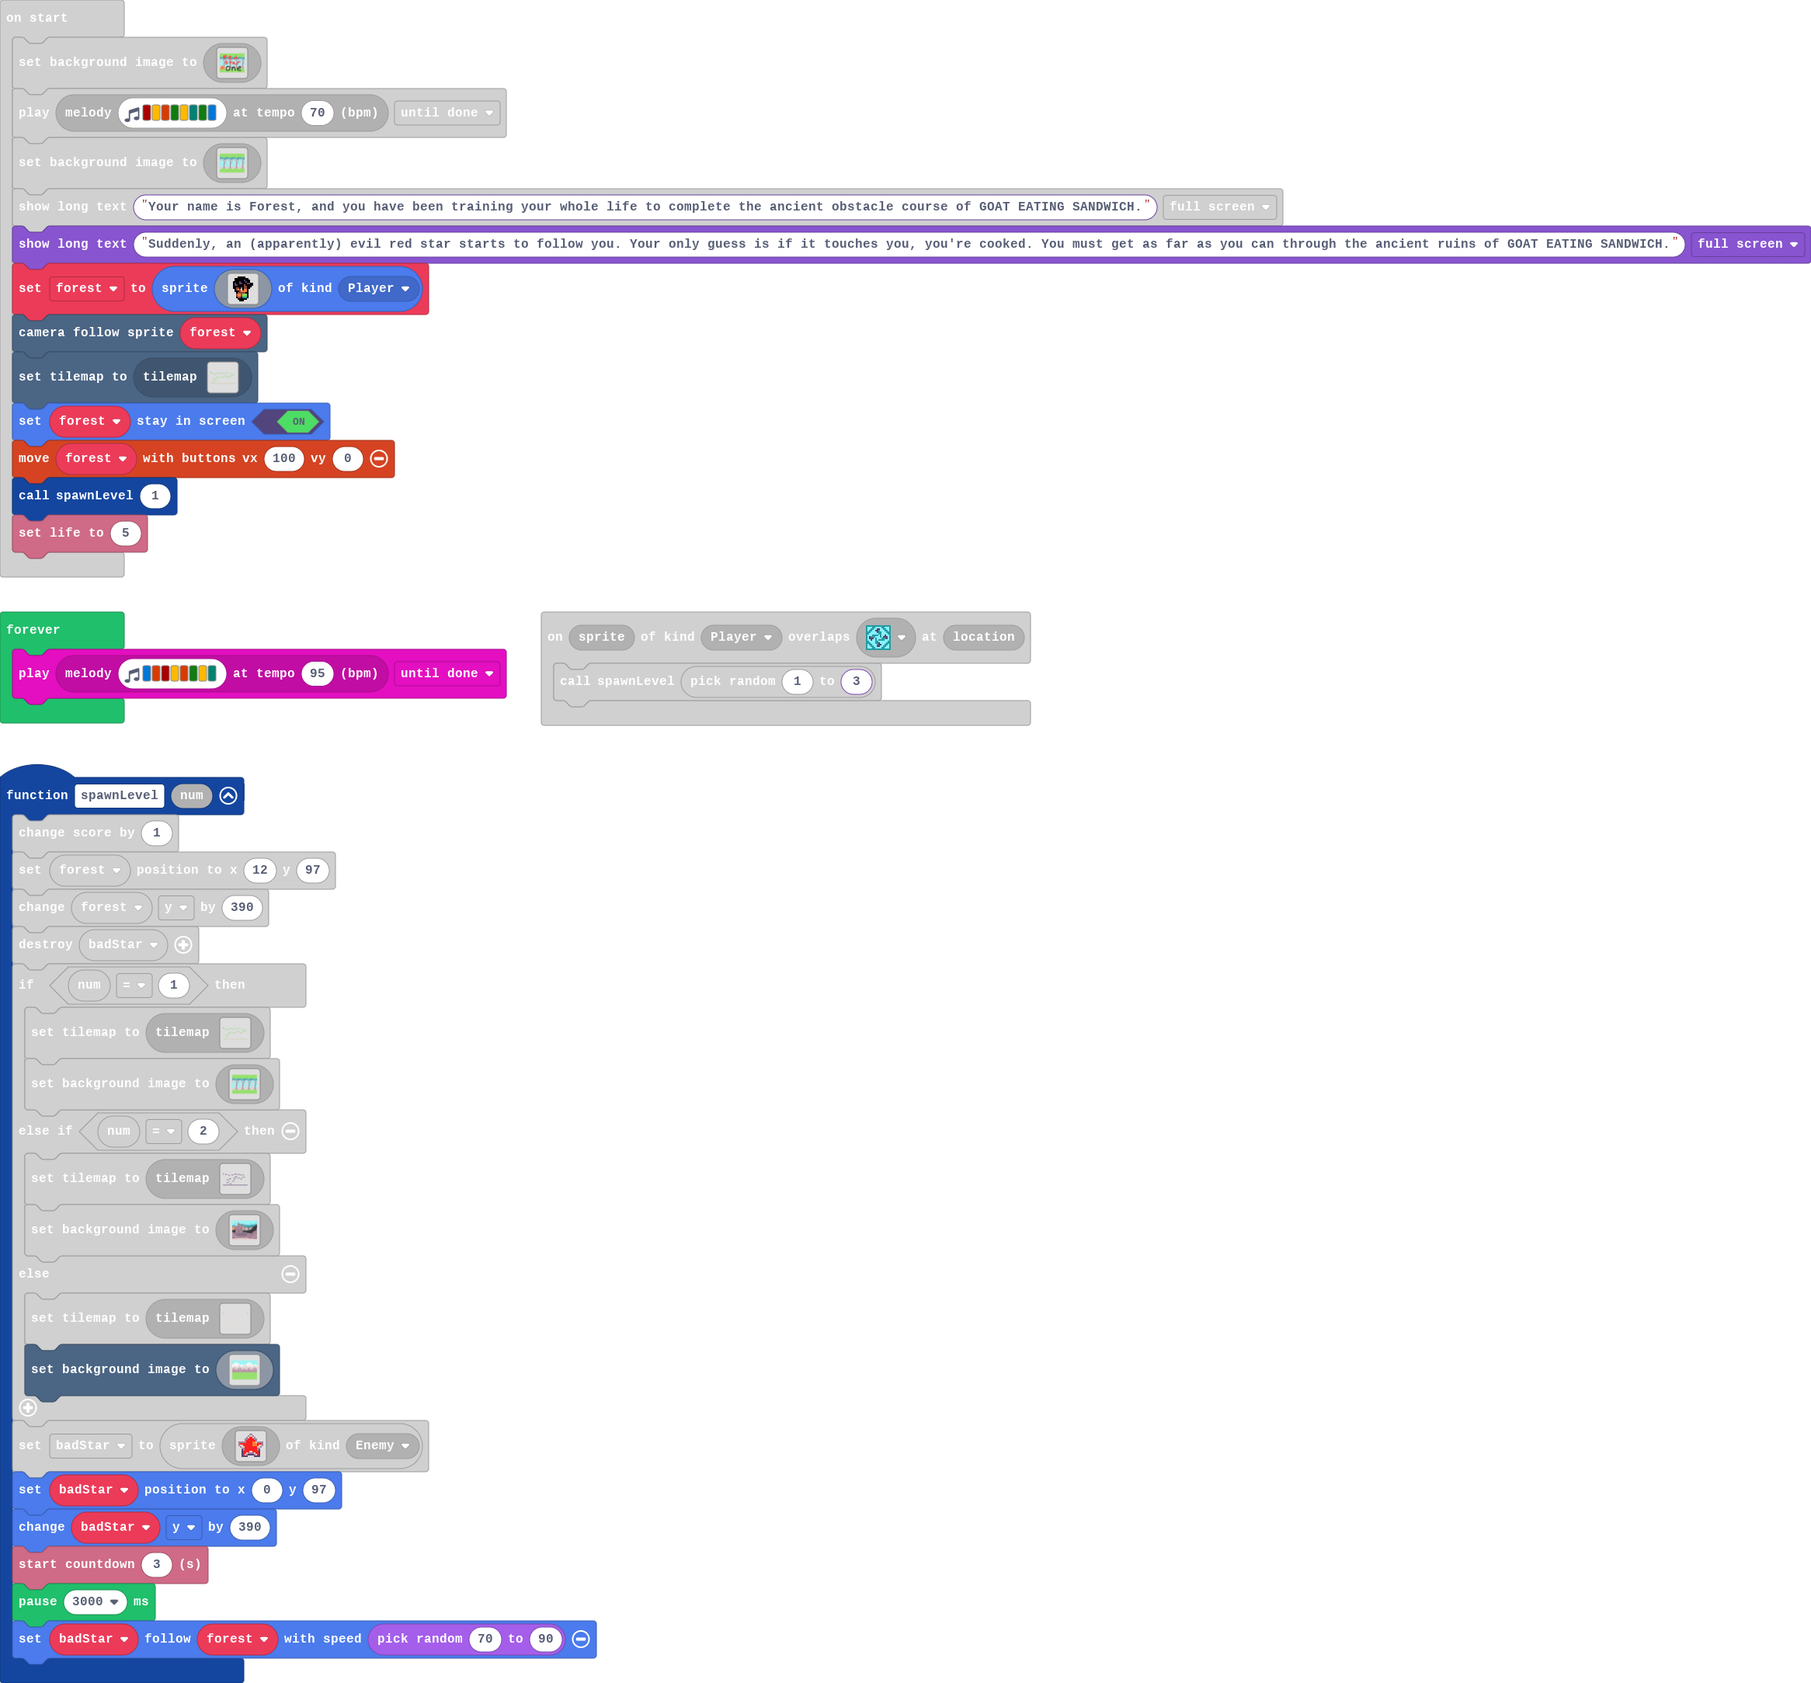
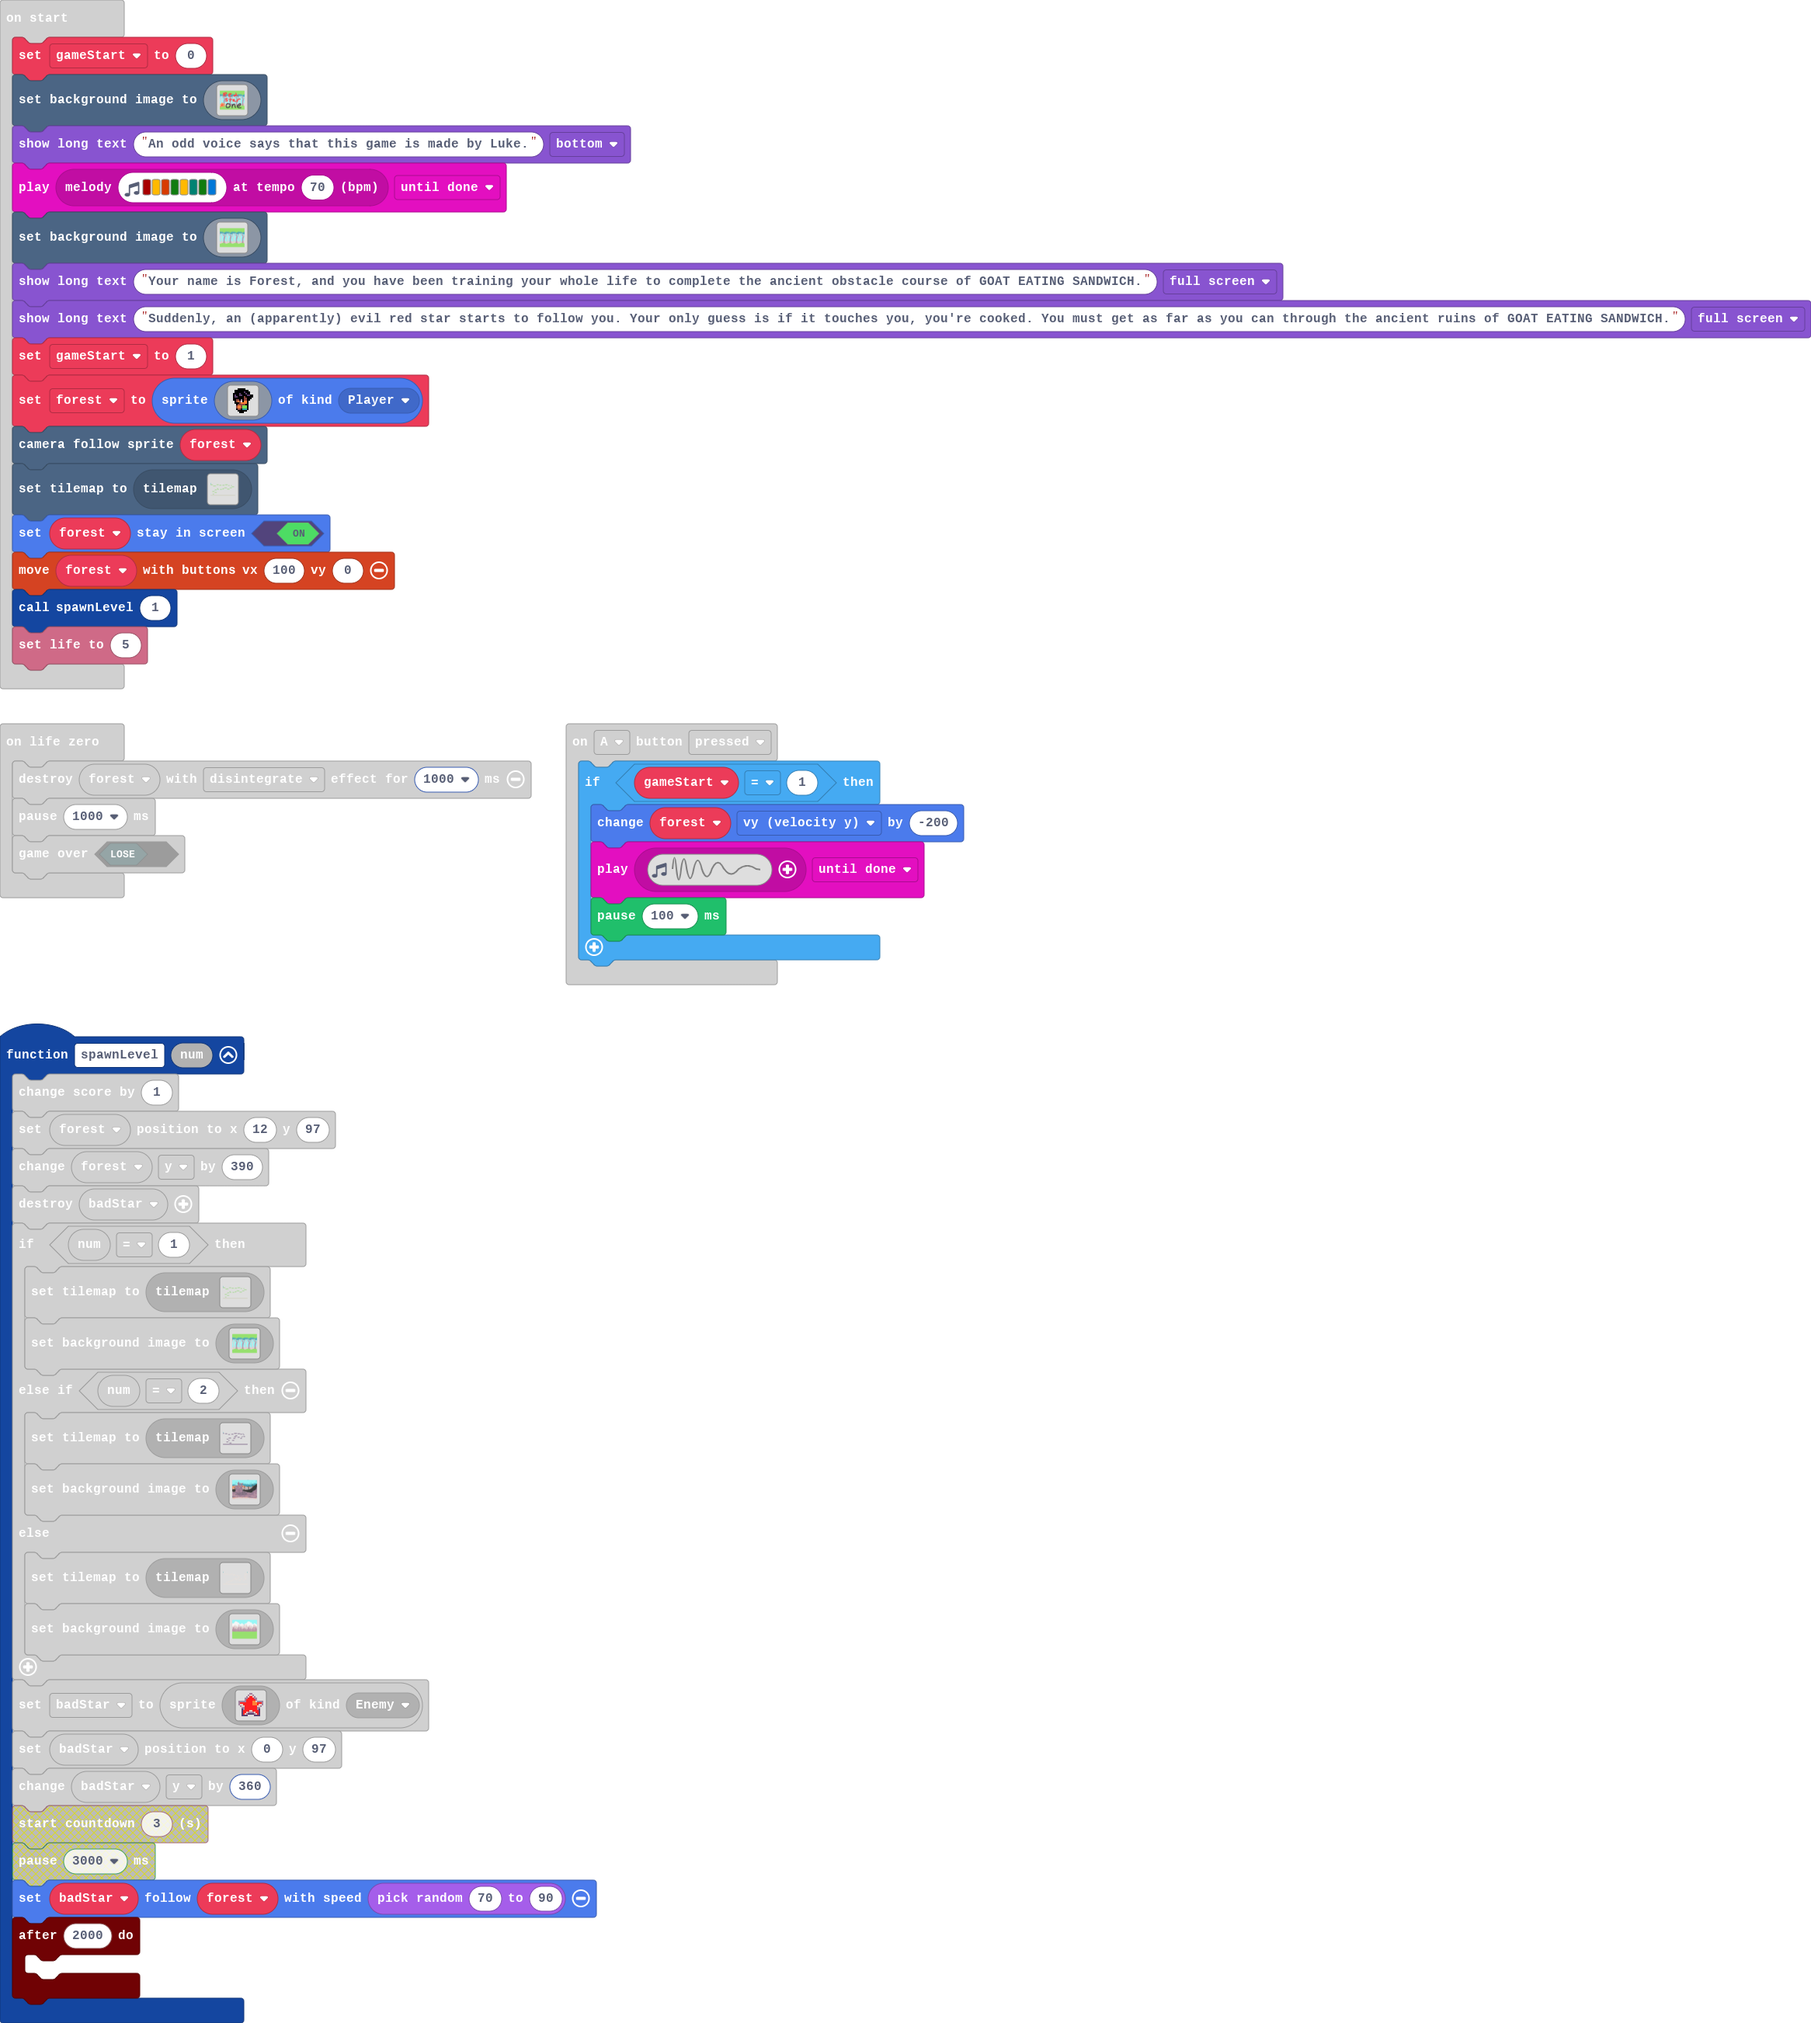
Update pxt.json, main.blocks, main.ts

Changed region(s): [[0.0, 0.0, 1.0, 0.9894]]

diff --git a/main.ts b/main.ts
@@ -15,17 +15,20 @@ function spawnLevel (num: number) {
     }
     badStar = sprites.create(assets.image`badStar`, SpriteKind.Enemy)
     badStar.setPosition(0, 97)
-    badStar.y += 390
-    info.startCountdown(3)
-    pause(3000)
-    badStar.follow(forest, randint(70, 90))
+    badStar.y += 360
+    timer.after(2000, function () {
+        badStar.follow(forest, randint(70, 90))
+    })
 }
 scene.onHitWall(SpriteKind.Player, function (sprite, location) {
     temp = 0
 })
 controller.A.onEvent(ControllerButtonEvent.Pressed, function () {
-    forest.vy += -200
-    pause(500)
+    if (gameStart == 1) {
+        forest.vy += -200
+        music.play(music.createSoundEffect(WaveShape.Sine, 5000, 0, 255, 0, 500, SoundExpressionEffect.None, InterpolationCurve.Linear), music.PlaybackMode.UntilDone)
+        pause(100)
+    }
 })
 controller.left.onEvent(ControllerButtonEvent.Pressed, function () {
     animation.runImageAnimation(
@@ -146,7 +149,7 @@ controller.right.onEvent(ControllerButtonEvent.Pressed, function () {
     )
 })
 info.onLifeZero(function () {
-    sprites.destroy(forest, effects.disintegrate, 500)
+    sprites.destroy(forest, effects.disintegrate, 1000)
     pause(1000)
     game.gameOver(false)
 })
@@ -160,11 +163,15 @@ sprites.onOverlap(SpriteKind.Player, SpriteKind.Enemy, function (sprite, otherSp
 let temp = 0
 let badStar: Sprite = null
 let forest: Sprite = null
+let gameStart = 0
+gameStart = 0
 scene.setBackgroundImage(assets.image`start`)
+game.showLongText("An odd voice says that this game is made by Luke.", DialogLayout.Bottom)
 music.play(music.stringPlayable("C5 A B G A F G E ", 70), music.PlaybackMode.UntilDone)
 scene.setBackgroundImage(assets.image`normalBG`)
 game.showLongText("Your name is Forest, and you have been training your whole life to complete the ancient obstacle course of GOAT EATING SANDWICH.", DialogLayout.Full)
 game.showLongText("Suddenly, an (apparently) evil red star starts to follow you. Your only guess is if it touches you, you're cooked. You must get as far as you can through the ancient ruins of GOAT EATING SANDWICH.", DialogLayout.Full)
+gameStart = 1
 forest = sprites.create(assets.image`idle`, SpriteKind.Player)
 scene.cameraFollowSprite(forest)
 tiles.setCurrentTilemap(tilemap`one`)
@@ -173,9 +180,9 @@ controller.moveSprite(forest, 100, 0)
 spawnLevel(1)
 info.setLife(5)
 forever(function () {
-    music.play(music.stringPlayable("E B C5 A B G A F ", 95), music.PlaybackMode.UntilDone)
-})
-forever(function () {
     forest.vy += temp
     temp += 1
+})
+forever(function () {
+    music.play(music.stringPlayable("E B C5 A B G A F ", 95), music.PlaybackMode.UntilDone)
 })
